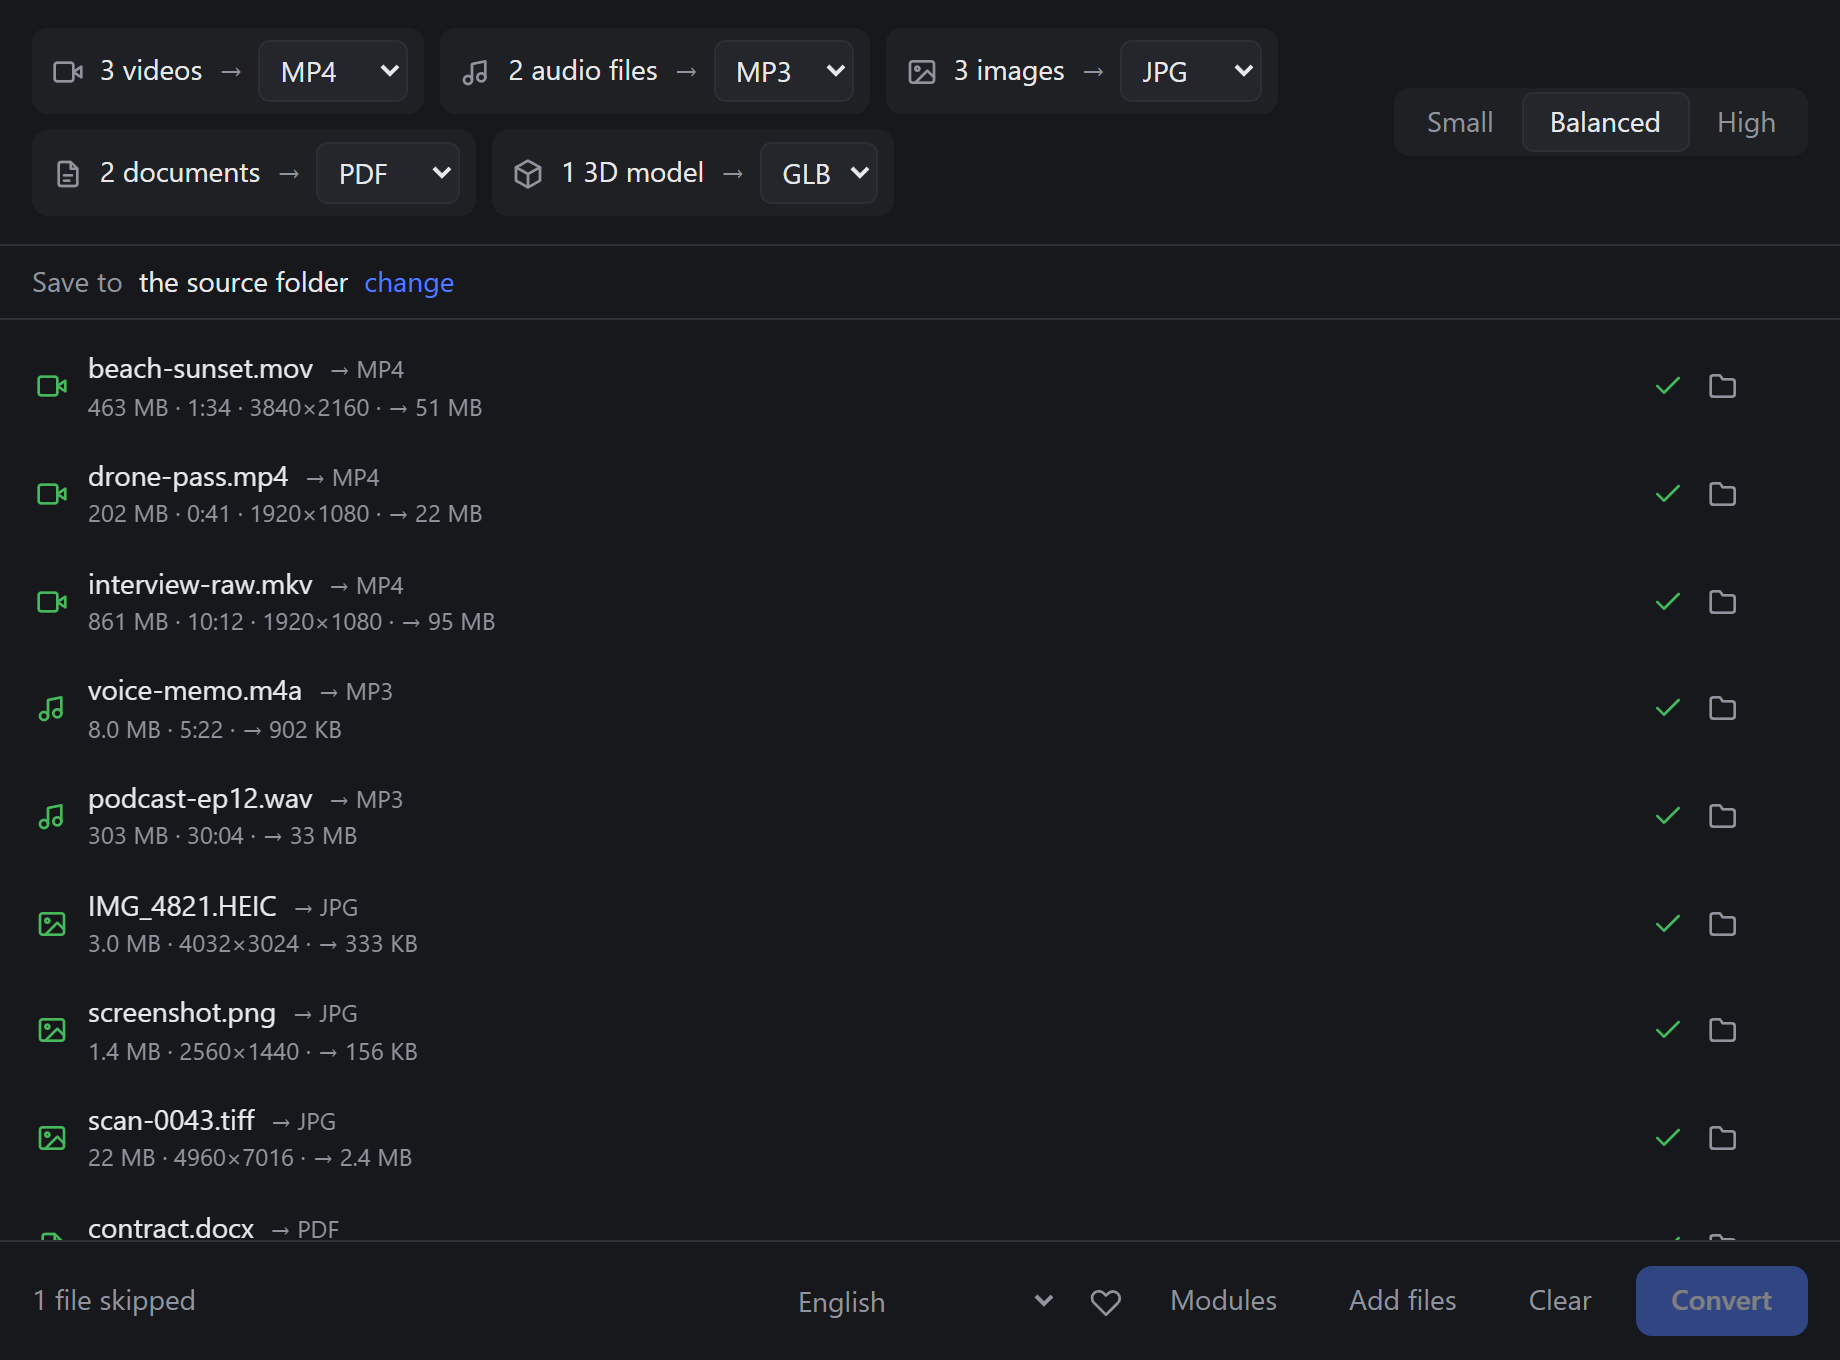
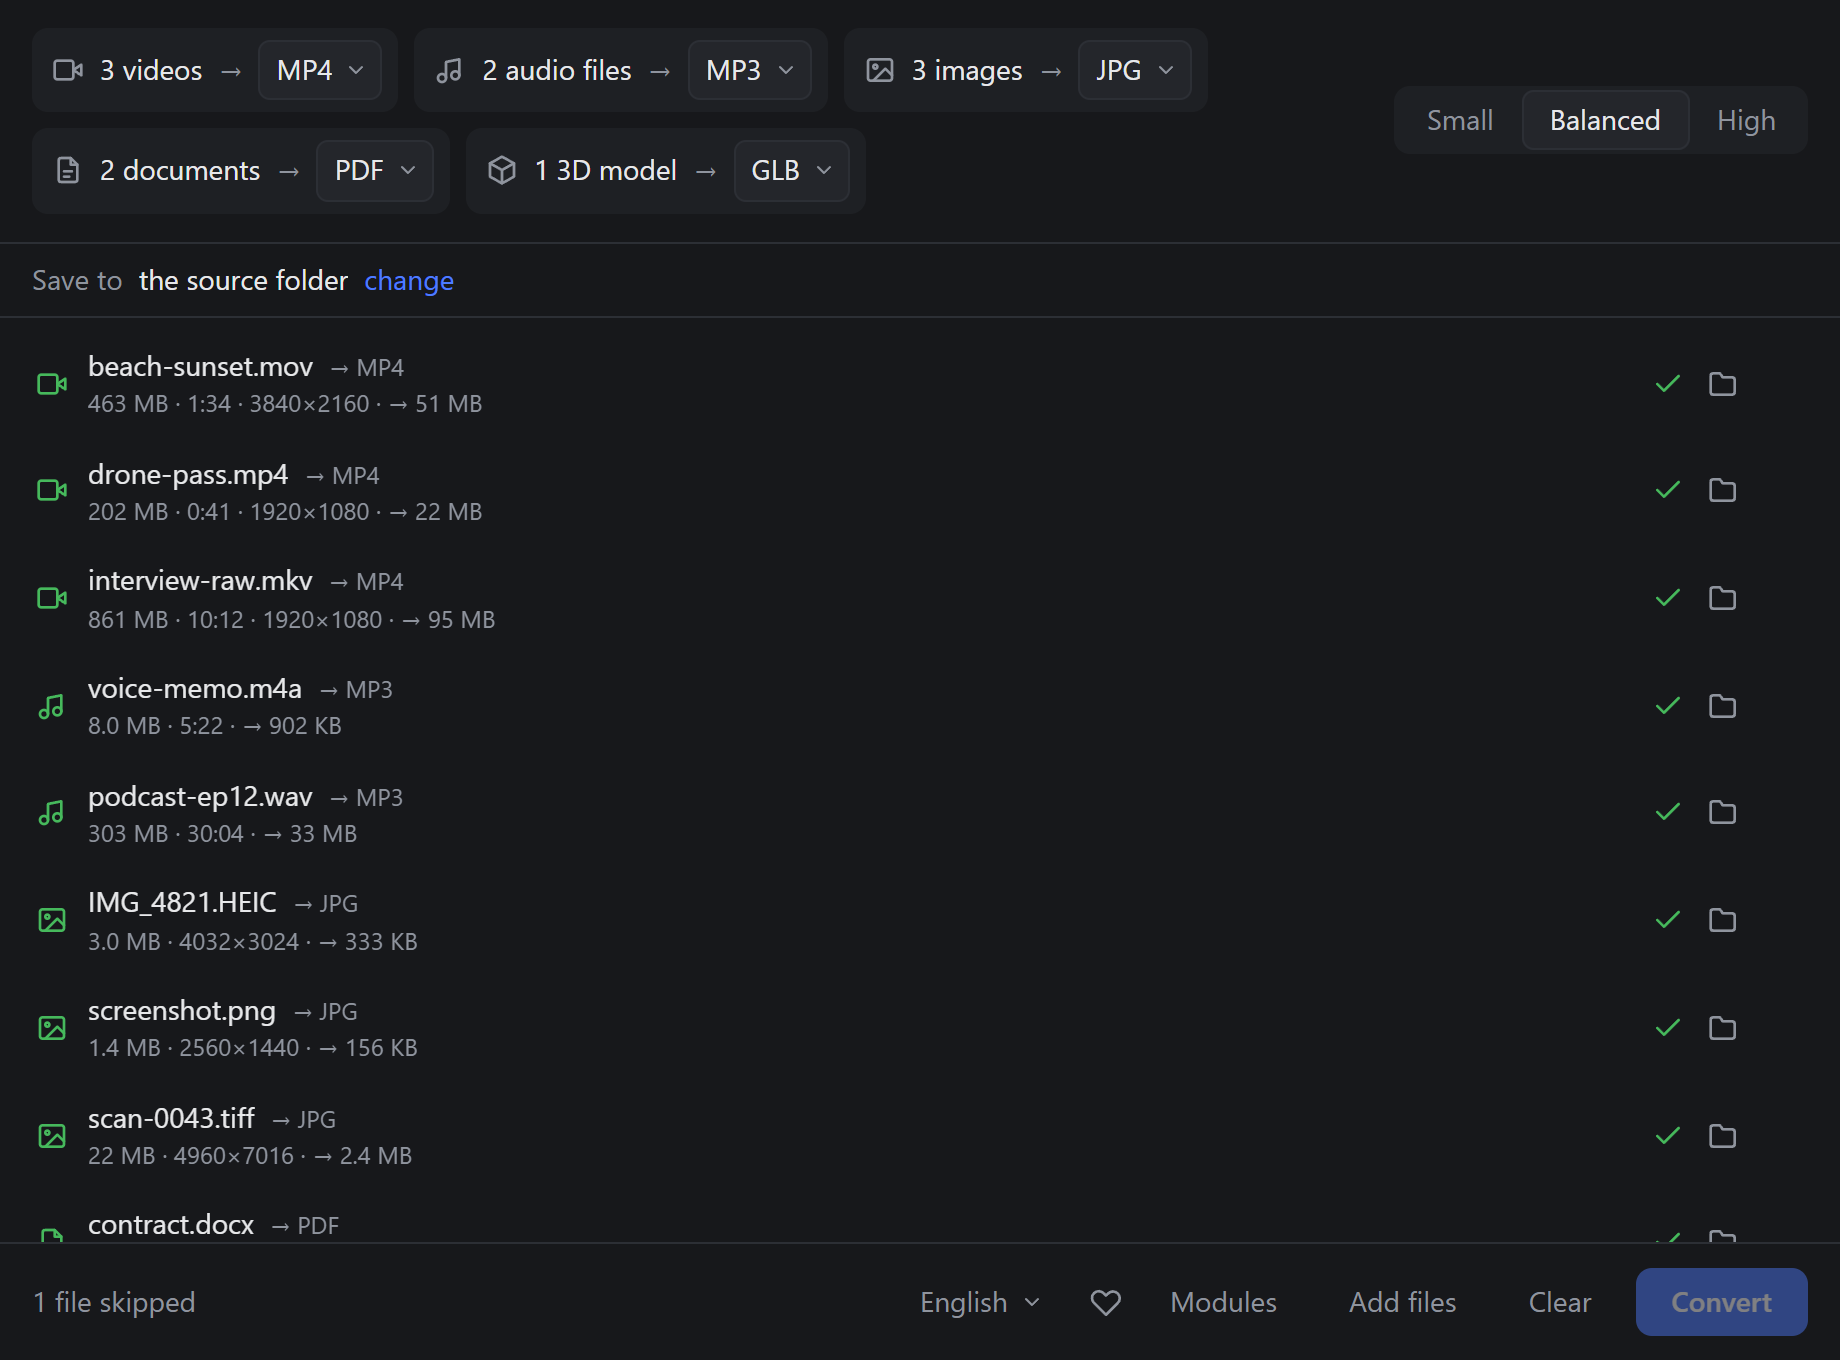
fix(ui): draw the drop-down menus instead of using native selects
The language menu rendered as a white popup in the middle of a dark app.
Native select popups are painted by the platform: Chromium only goes
dark when the control has an opaque dark background, and WebKitGTK
ignores option colours entirely and follows the GTK theme — so the same
bug would have hit every Linux user regardless of what our CSS said.

Replaces both the language picker and the per-group format pickers with
a small Dropdown component: keyboard navigable, closes on outside click
or scroll, and opens upward in the footer where there is no room below.

A `languages` preview scene captures it, which the native popup could
never be — it lives outside the page and never appeared in a screenshot.

diff --git a/src/components/Dropdown.tsx b/src/components/Dropdown.tsx
@@ -1,0 +1,153 @@
+import { useEffect, useId, useRef, useState } from "react";
+
+export interface DropdownOption {
+  value: string;
+  label: string;
+}
+
+interface Props {
+  value: string;
+  options: DropdownOption[];
+  disabled?: boolean;
+  label: string;
+  /** Which edge the menu lines up with; the footer picker opens to the left. */
+  align?: "start" | "end";
+  className?: string;
+  onChange: (value: string) => void;
+}
+
+/**
+ * A styled replacement for `<select>`.
+ *
+ * The native drop-down list is painted by the platform, not by our CSS:
+ * Chromium only honours a dark palette when the control has an opaque dark
+ * background, and WebKitGTK ignores option colours entirely and follows the
+ * GTK theme — so on a Linux box with a light theme the menu came out white in
+ * the middle of a dark app. Drawing it ourselves is the only way to be sure.
+ */
+export function Dropdown({
+  value,
+  options,
+  disabled,
+  label,
+  align = "start",
+  className,
+  onChange,
+}: Props) {
+  const [open, setOpen] = useState(false);
+  const [active, setActive] = useState(0);
+  const root = useRef<HTMLDivElement>(null);
+  const listId = useId();
+
+  const selected = options.find((option) => option.value === value);
+
+  useEffect(() => {
+    if (!open) return;
+
+    const onPointerDown = (event: PointerEvent) => {
+      if (!root.current?.contains(event.target as Node)) setOpen(false);
+    };
+    // Closing on scroll beats repositioning a menu that is anchored to a row.
+    const onScroll = () => setOpen(false);
+
+    document.addEventListener("pointerdown", onPointerDown);
+    window.addEventListener("scroll", onScroll, true);
+    return () => {
+      document.removeEventListener("pointerdown", onPointerDown);
+      window.removeEventListener("scroll", onScroll, true);
+    };
+  }, [open]);
+
+  const commit = (next: string) => {
+    onChange(next);
+    setOpen(false);
+  };
+
+  const onKeyDown = (event: React.KeyboardEvent) => {
+    if (disabled) return;
+
+    if (!open) {
+      if (["Enter", " ", "ArrowDown", "ArrowUp"].includes(event.key)) {
+        event.preventDefault();
+        setActive(Math.max(0, options.findIndex((option) => option.value === value)));
+        setOpen(true);
+      }
+      return;
+    }
+
+    switch (event.key) {
+      case "Escape":
+        event.preventDefault();
+        setOpen(false);
+        break;
+      case "ArrowDown":
+        event.preventDefault();
+        setActive((index) => (index + 1) % options.length);
+        break;
+      case "ArrowUp":
+        event.preventDefault();
+        setActive((index) => (index - 1 + options.length) % options.length);
+        break;
+      case "Home":
+        event.preventDefault();
+        setActive(0);
+        break;
+      case "End":
+        event.preventDefault();
+        setActive(options.length - 1);
+        break;
+      case "Enter":
+      case " ":
+        event.preventDefault();
+        commit(options[active].value);
+        break;
+    }
+  };
+
+  return (
+    <div className={`dropdown${className ? ` ${className}` : ""}`} ref={root}>
+      <button
+        type="button"
+        className="dropdown-trigger"
+        disabled={disabled}
+        aria-haspopup="listbox"
+        aria-expanded={open}
+        aria-controls={open ? listId : undefined}
+        aria-label={label}
+        onClick={() => {
+          setActive(Math.max(0, options.findIndex((option) => option.value === value)));
+          setOpen((wasOpen) => !wasOpen);
+        }}
+        onKeyDown={onKeyDown}
+      >
+        <span className="dropdown-value">{selected?.label ?? value}</span>
+        <svg width="12" height="12" viewBox="0 0 24 24" fill="none" aria-hidden>
+          <path
+            d="m6 9 6 6 6-6"
+            stroke="currentColor"
+            strokeWidth="2"
+            strokeLinecap="round"
+            strokeLinejoin="round"
+          />
+        </svg>
+      </button>
+
+      {open && (
+        <ul className={`dropdown-menu is-${align}`} id={listId} role="listbox" aria-label={label}>
+          {options.map((option, index) => (
+            <li
+              key={option.value}
+              role="option"
+              aria-selected={option.value === value}
+              className={index === active ? "is-active" : undefined}
+              onPointerEnter={() => setActive(index)}
+              onClick={() => commit(option.value)}
+            >
+              {option.label}
+            </li>
+          ))}
+        </ul>
+      )}
+    </div>
+  );
+}

diff --git a/src/styles.css b/src/styles.css
@@ -153,18 +153,71 @@ button:disabled {
   color: var(--muted);
 }
 
-.select {
-  padding: 4px 6px;
-  font: inherit;
+.dropdown {
+  position: relative;
+}
+
+.dropdown-trigger {
+  display: flex;
+  align-items: center;
+  gap: 6px;
+  padding: 4px 6px 4px 8px;
   color: var(--text);
   background: var(--surface-hover);
   border: 1px solid var(--line);
   border-radius: 6px;
+}
+
+.dropdown-trigger:hover:not(:disabled) {
+  border-color: var(--muted);
+}
+
+.dropdown-trigger svg {
+  color: var(--muted);
+}
+
+.dropdown-value {
+  white-space: nowrap;
+}
+
+.dropdown-menu {
+  position: absolute;
+  top: calc(100% + 4px);
+  z-index: 20;
+  min-width: 100%;
+  max-height: 320px;
+  margin: 0;
+  padding: 4px;
+  overflow-y: auto;
+  list-style: none;
+  background: var(--surface);
+  border: 1px solid var(--line);
+  border-radius: 8px;
+  /* The one shadow in the app: a floating menu has to separate from the rows
+     underneath it. */
+  box-shadow: 0 8px 24px rgb(0 0 0 / 45%);
+}
+
+.dropdown-menu.is-start {
+  left: 0;
+}
+.dropdown-menu.is-end {
+  right: 0;
+}
+
+.dropdown-menu li {
+  padding: 5px 10px;
+  white-space: nowrap;
+  border-radius: 5px;
   cursor: pointer;
 }
-.select:disabled {
-  opacity: 0.5;
-  cursor: default;
+
+.dropdown-menu li.is-active {
+  background: var(--surface-hover);
+}
+
+.dropdown-menu li[aria-selected="true"] {
+  color: var(--accent);
 }
 
 .segmented {
@@ -398,17 +451,23 @@ button:disabled {
   background: var(--accent-press);
 }
 
-.langpicker {
-  max-width: 150px;
-  padding: 6px 8px;
-  background: transparent;
-  border-color: transparent;
-  color: var(--muted);
+/* Anchored to the footer, so it has to open upwards or it falls off-screen. */
+.langpicker .dropdown-menu {
+  top: auto;
+  bottom: calc(100% + 4px);
 }
 
-.langpicker:hover {
+.langpicker .dropdown-trigger {
+  padding: 6px 8px;
+  color: var(--muted);
+  background: transparent;
+  border-color: transparent;
+}
+
+.langpicker .dropdown-trigger:hover {
   color: var(--text);
   background: var(--surface);
+  border-color: transparent;
 }
 
 .heart:hover {

diff --git a/src/components/FooterLinks.tsx b/src/components/FooterLinks.tsx
@@ -1,6 +1,7 @@
 import { openUrl } from "@tauri-apps/plugin-opener";
 
 import { LANGUAGE_NAMES, LOCALES, useI18n, type Locale } from "../i18n";
+import { Dropdown } from "./Dropdown";
 import { IconHeart } from "./Icons";
 
 const SPONSOR_URL = "https://github.com/sponsors/batushn";
@@ -12,19 +13,17 @@ export function FooterLinks() {
 
   return (
     <>
-      <select
-        className="select langpicker"
+      <Dropdown
+        className="langpicker"
         value={locale}
-        aria-label={t("action.language")}
-        title={t("action.language")}
-        onChange={(event) => setLocale(event.target.value as Locale)}
-      >
-        {(Object.keys(LOCALES) as Locale[]).map((code) => (
-          <option key={code} value={code}>
-            {LANGUAGE_NAMES[code]}
-          </option>
-        ))}
-      </select>
+        options={(Object.keys(LOCALES) as Locale[]).map((code) => ({
+          value: code,
+          label: LANGUAGE_NAMES[code],
+        }))}
+        label={t("action.language")}
+        align="end"
+        onChange={(next) => setLocale(next as Locale)}
+      />
 
       <button
         type="button"

diff --git a/src/components/GroupCard.tsx b/src/components/GroupCard.tsx
@@ -1,5 +1,6 @@
 import { useI18n } from "../i18n";
 import type { MediaKind } from "../types";
+import { Dropdown } from "./Dropdown";
 import { KindIcon } from "./Icons";
 
 interface Props {
@@ -23,19 +24,13 @@ export function GroupCard({ kind, count, target, options, disabled, onChange }: 
       <span className="group-arrow" aria-hidden>
         →
       </span>
-      <select
-        className="select"
+      <Dropdown
         value={target}
+        options={options.map((option) => ({ value: option, label: option.toUpperCase() }))}
         disabled={disabled}
-        aria-label={t("kind.targetFor", { kind: label })}
-        onChange={(event) => onChange(event.target.value)}
-      >
-        {options.map((option) => (
-          <option key={option} value={option}>
-            {option.toUpperCase()}
-          </option>
-        ))}
-      </select>
+        label={t("kind.targetFor", { kind: label })}
+        onChange={onChange}
+      />
     </div>
   );
 }

diff --git a/preview/mocks/scene.ts b/preview/mocks/scene.ts
@@ -8,6 +8,7 @@ export type Scene =
   | "done"
   | "setup"
   | "setup-configured"
+  | "languages"
   | "demo";
 
 const params = new URLSearchParams(location.search);
@@ -45,6 +46,15 @@ export async function runScene() {
     case "queue":
       dropDemoFiles();
       await sleep(700);
+      return ready();
+
+    case "languages":
+      dropDemoFiles();
+      await sleep(700);
+      // Opens the language menu, which is a real element now rather than a
+      // platform-drawn popup — so it lands in the screenshot.
+      document.querySelector<HTMLButtonElement>(".langpicker .dropdown-trigger")?.click();
+      await sleep(300);
       return ready();
 
     case "running":
